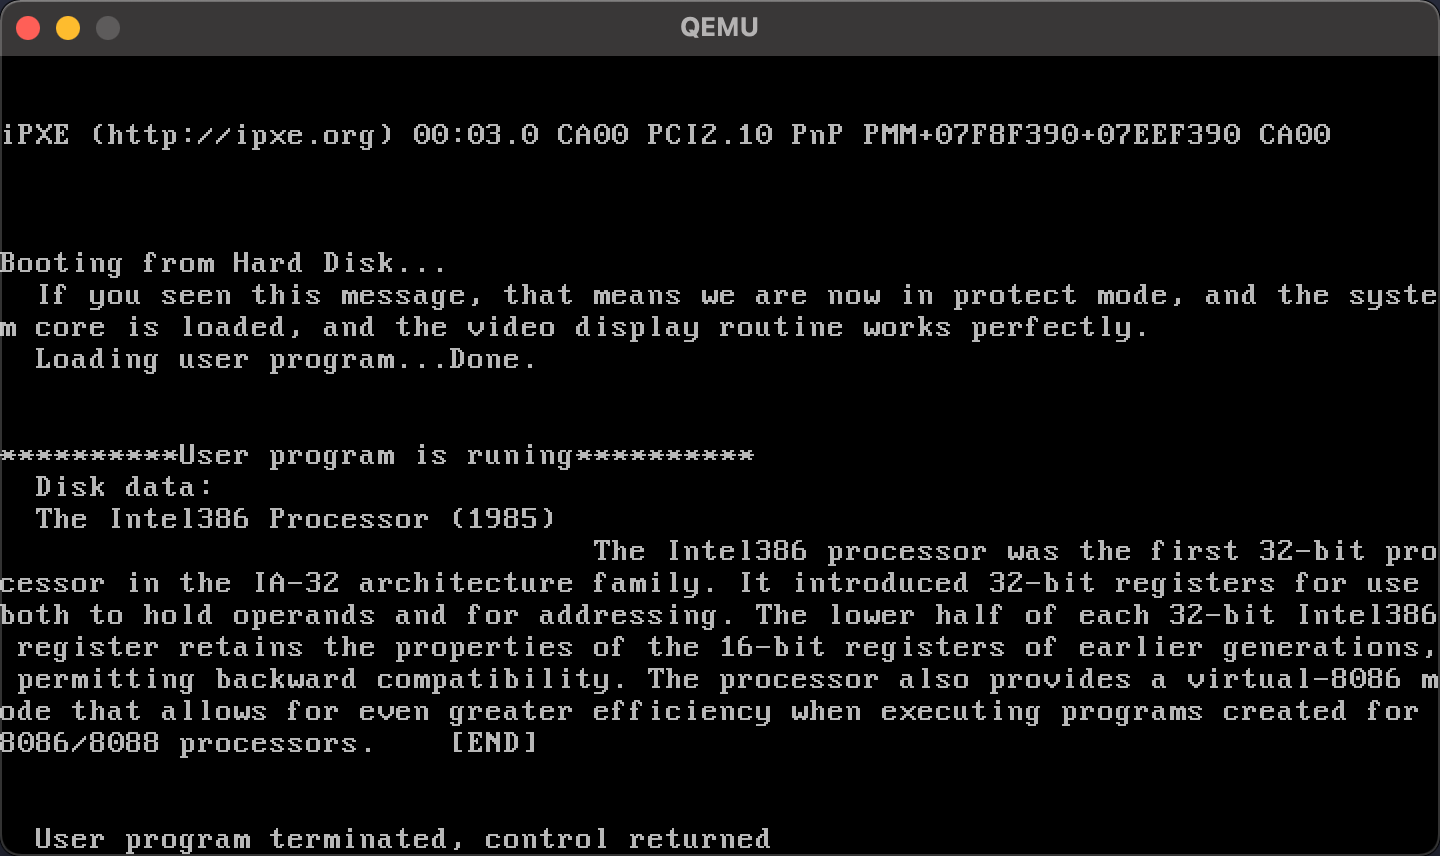
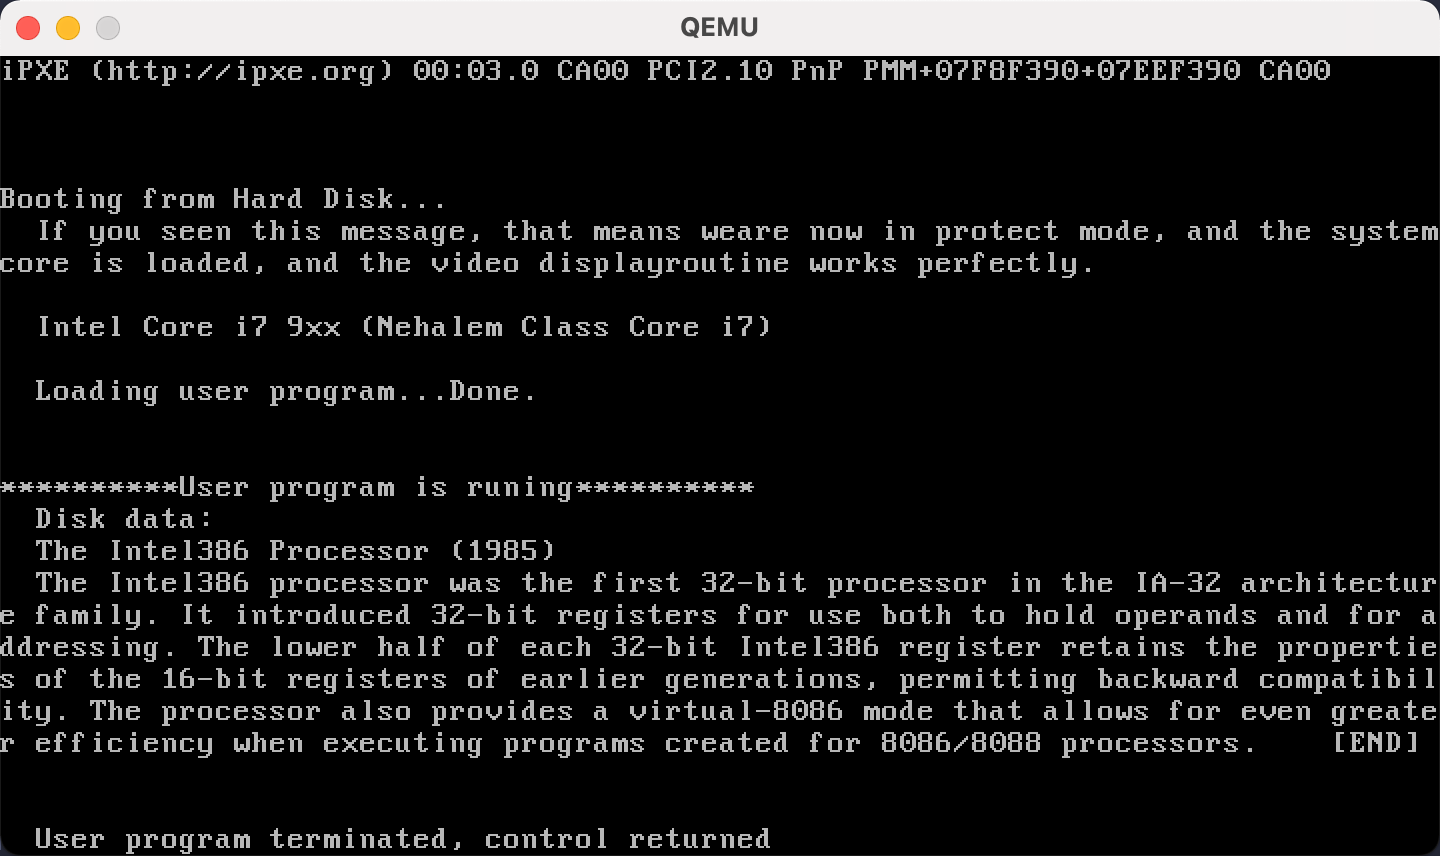
add cpu brand info

diff --git a/kernel/README.md b/kernel/README.md
@@ -10,5 +10,5 @@ dd if=kernel.bin of=kernel.img seek=1 bs=512
 dd if=app.bin of=kernel.img seek=10 bs=512 
 dd if=diskdata.txt of=kernel.img seek=100 bs=512 
 
-qemu-system-x86_64 -drive format=raw,file=kernel.img
+qemu-system-x86_64 -drive format=raw,file=kernel.img -accel hvf -cpu host
 ```
